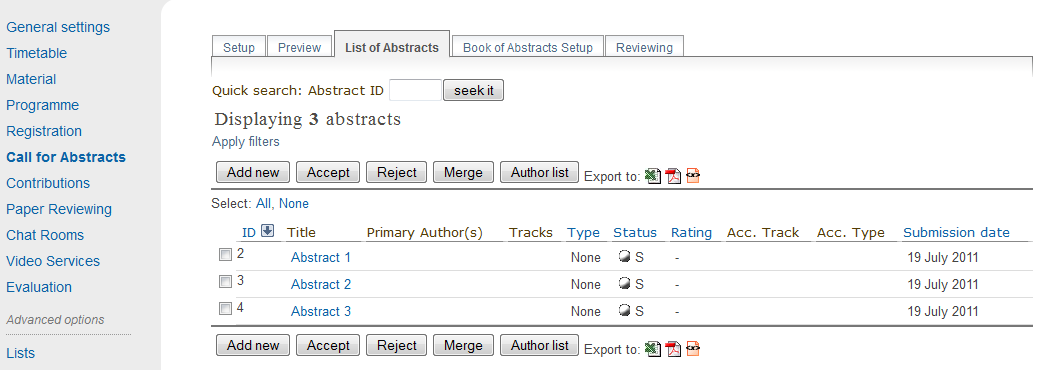
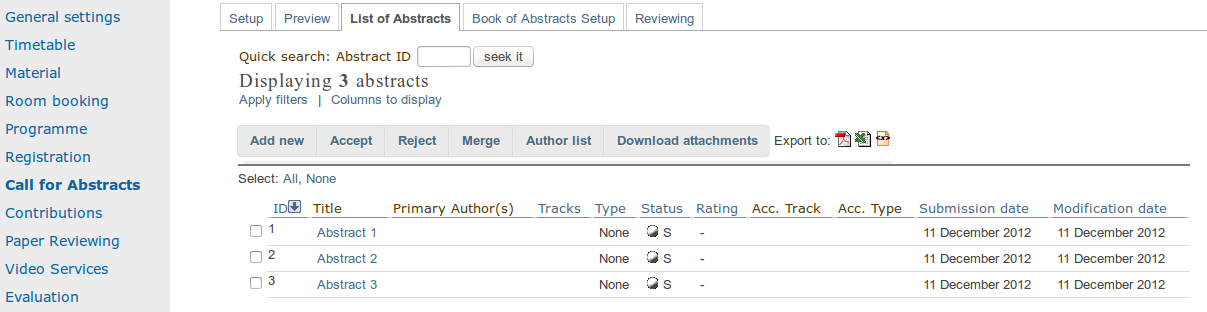
[DOC] Updated abstract list screenshoot

diff --git a/doc/guides/UserGuide/Conferences.rst b/doc/guides/UserGuide/Conferences.rst
@@ -844,6 +844,8 @@ submitted to the conference:
 
 * **Apply filters**: Clicking on this link will open a box with many filters. Enabling or disabling any of them will have an impact on the abstracts shown in the list below. For example, you can choose to display only the abstracts belonging to a particular track or session.
 
+* **Columns to display**: Clicking on this link will open a box with the columns to display for each abstract.
+
 * **Add New**:  Submit a new abstract. When you click on this, a window will open:
 
 |image150|
